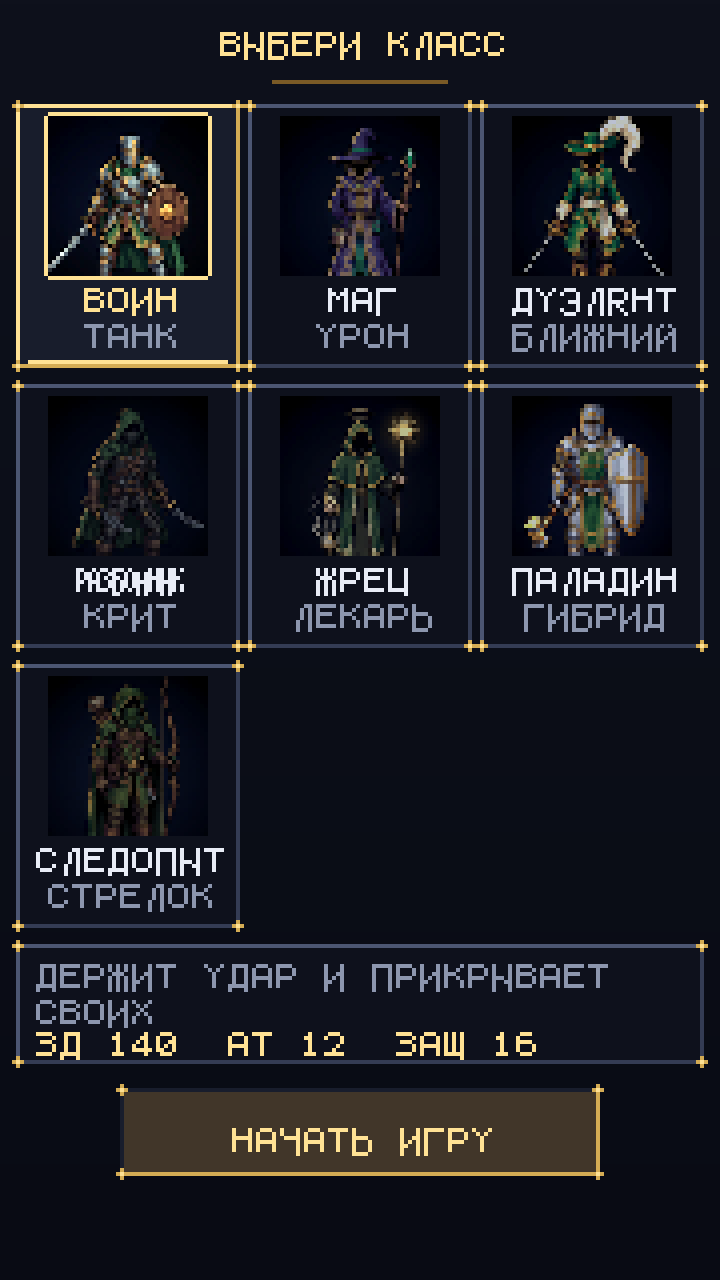
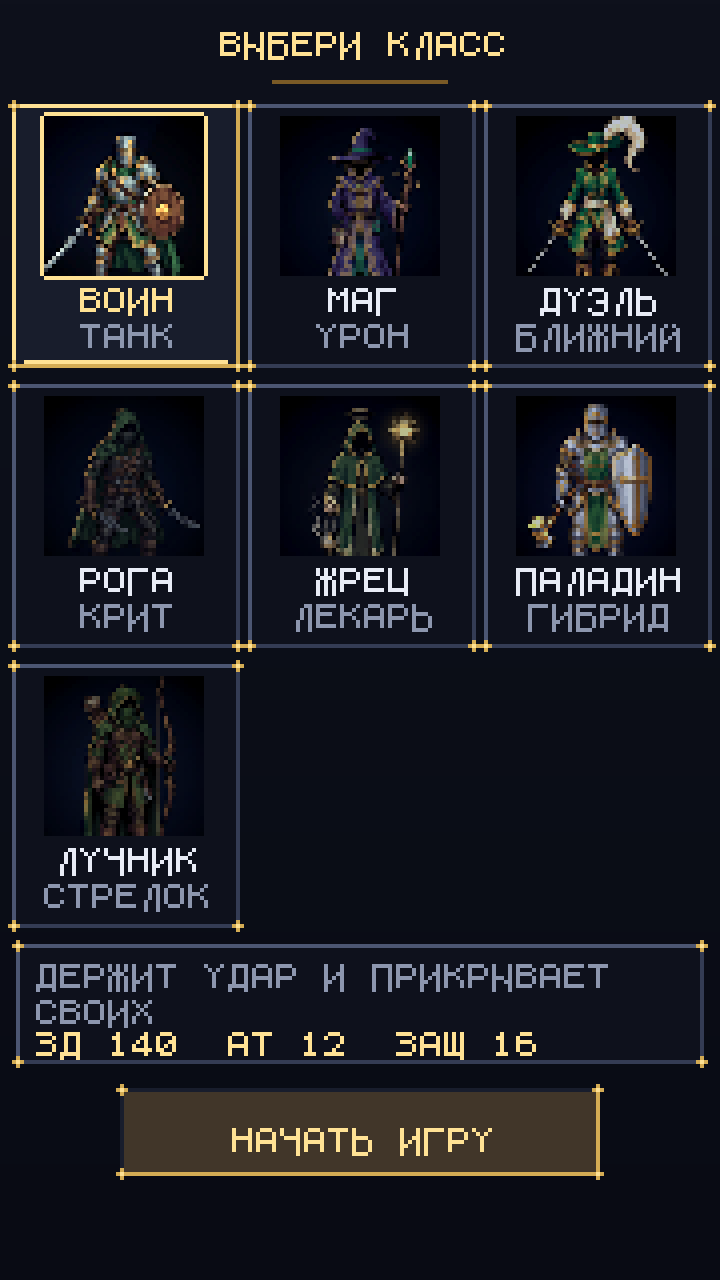
docs: экран выбора класса и профиль игрока

diff --git a/README.md b/README.md
@@ -98,3 +98,18 @@ player/hero_class="warrior"   ; пусто — обычный герой
 Когда появится экран выбора класса, туда же можно писать через
 `ProjectSettings.set_setting("game/player/hero_class", chosen)` и сохранять
 выбор в профиле игрока — заставка подхватит его при следующем запуске.
+
+## Выбор класса
+
+При первом запуске после заставки открывается `client/class_select.tscn`
+(`client/ui/class_select.gd`): семь классов сеткой 3×3, у каждого портрет,
+роль и описание, внизу — стартовые характеристики выбранного и кнопка
+«НАЧАТЬ ИГРУ». Тап по клетке выбирает, повторный тап или кнопка — подтверждает.
+
+Выбор сохраняется в `user://profile.cfg` (`[hero] class`, `created=true`) и в
+настройку `game/player/hero_class`. Заставка проверяет профиль: если класс ещё
+не выбран, после полоски открывается экран выбора, иначе сразу игра. По полоске
+в этот момент бежит выбранный класс.
+
+Портреты 96×96 — `client/art/classes/portrait_<класс>.png`, собираются
+`tools/make_class_portraits.py`.
